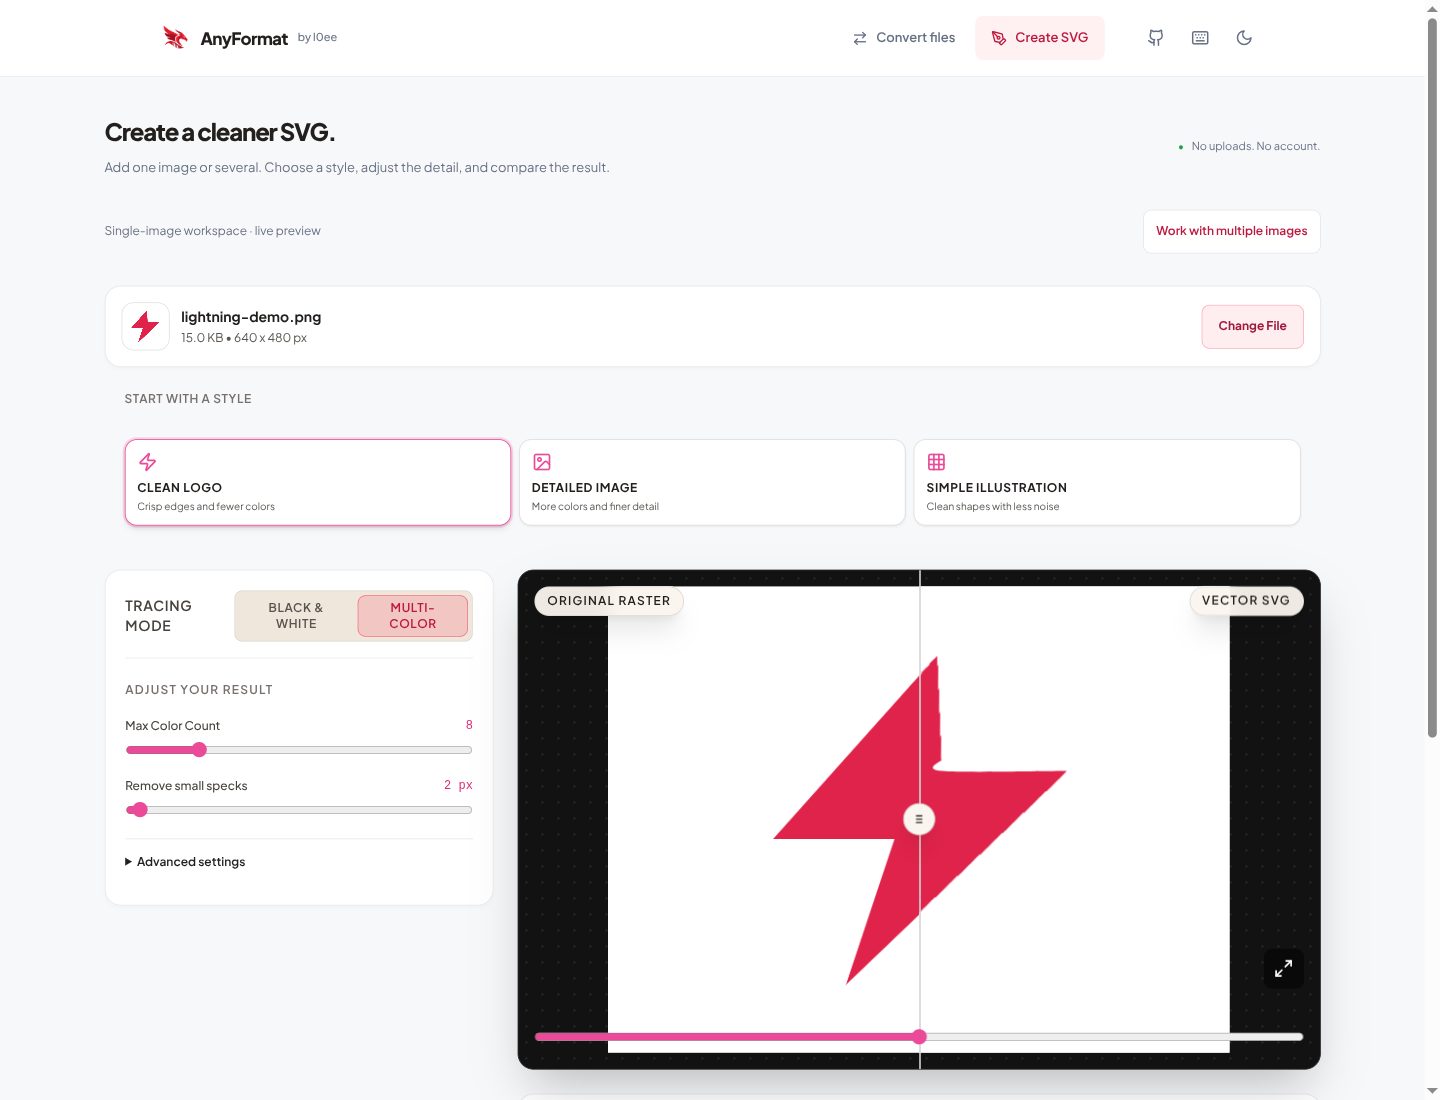
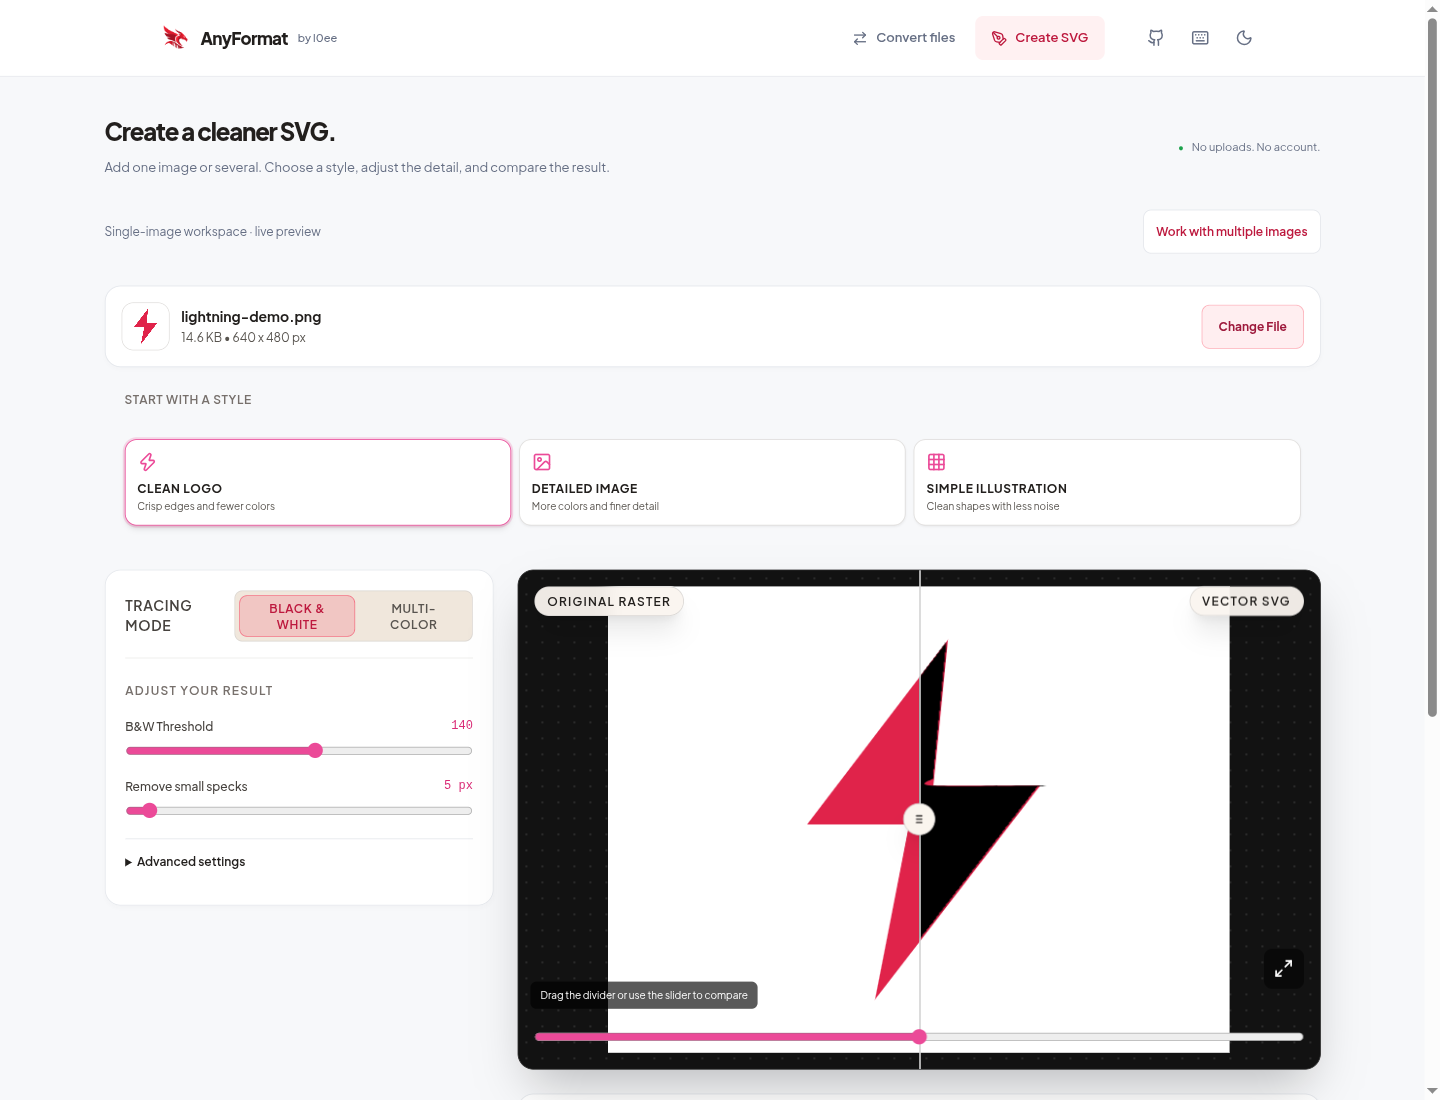
docs: refresh README and project screenshot (#22)

diff --git a/README.md b/README.md
@@ -1,84 +1,35 @@
-# AnyFormat 2.2
+# AnyFormat
 
-**Image and PDF conversion. SVG tools. All in your browser.**
+AnyFormat converts images in batches, traces images into SVGs, and exports selected PDF pages in your browser.
+
+[Open AnyFormat](https://l0ee.github.io/anyformat/) · [Report an issue](https://github.com/l0ee/anyformat/issues)
 
 [![CI](https://github.com/l0ee/anyformat/actions/workflows/ci.yml/badge.svg)](https://github.com/l0ee/anyformat/actions/workflows/ci.yml)
 
-AnyFormat helps you change image formats, turn pictures into SVG graphics, and export individual PDF pages. Preview your results, adjust the settings, and download one file or a batch. Your files are processed on your device and are never uploaded to a conversion server.
+![AnyFormat Vector Studio showing tracing settings and a comparison of the original image with its traced SVG](docs/images/vector-studio.png)
 
-[Open AnyFormat](https://l0ee.github.io/anyformat/) · [Report a problem](https://github.com/l0ee/anyformat/issues) · [Contribute](CONTRIBUTING.md)
+## Workspaces
 
-## At a glance
-
-| Area | Approach |
+| Workspace | What it does |
 | --- | --- |
-| Interface | React and TypeScript, with responsive layouts and preview-driven workflows |
-| Processing | Browser Canvas for raster operations and Web Workers for background tracing |
-| PDFs and exports | PDF.js, pdf-lib, and ZIP downloads for completed batches |
-| Data handling | Local file processing without a file-upload backend |
-| Development | Documented type checks, linting, unit tests, and Playwright browser tests |
+| Convert files | Convert images, SVG files, and selected PDF pages. Choose an output for each file, preview results, and download individual files or a batch ZIP. |
+| Create SVG | Trace one image in Vector Studio or add several to Vector Batch. Adjust colors and detail, compare the result with the original, and inspect or copy the SVG source. Batch images use shared styles and tracing settings. |
 
-Start with the [live application](https://l0ee.github.io/anyformat/), or jump to [local setup](#run-locally) to explore the code.
+For raster inputs, PNG, JPEG, and WebP exports support resizing, including same-format exports. JPEG and WebP also have quality controls; JPEG exports let you choose a background for transparent images.
 
-## What's new in 2.2
-
-- Resize PNG, JPEG, and WebP exports, adjust JPEG/WebP quality, and choose a background for transparent images exported as JPEG. Same-format exports apply these settings too.
-- Prepare a Studio image for a separate save/share tap, or share a completed conversion through your device's native menu when supported. See [mobile saving and sharing](docs/mobile-saving-and-sharing.md) for platform behavior and device-test scope.
-- Process SVG batches with bounded parallel tracing and keep the latest cleanup settings in exported files.
-- Safer ZIP names, early image-size checks, and more reliable PDF rendering under production security policies, including WebKit.
-- Tailwind CSS 4 styling with the existing layout, themes, and accessibility controls preserved.
-
-## Retained from 2.1
-
-- **Know what's happening:** conversion stages such as Reading image, Rendering PDF page, and Tracing shapes, plus a count of finished files.
-- **Stop and resume:** stop either queue without losing completed results, then resume the files still marked Ready. Some canvas/PDF operations finish their current browser step before stopping safely.
-- **Download as files finish:** save an individual SVG from a batch or export completed results as a ZIP without waiting for every file.
-- **Compare your result:** original and output sizes show whether the SVG is smaller or larger. A size change does not guarantee equivalent image quality.
-- **More responsive interactions:** the upload area acknowledges dragged files, the comparison handle explains how to use it, and selected styles provide subtle feedback.
-
-The creator link beside the logo opens [the AnyFormat repository](https://github.com/l0ee/anyformat). All motion still respects reduced-motion preferences.
-
-## What's new in Version 2
-
-Version 2 puts the file tools first: a cleaner layout, two main modes, and fewer settings to work through. The upload area includes a small pixel-to-vector motion graphic that you can pause. It also respects your device's reduced-motion setting.
-
-- **Convert files** for image formats and selected PDF pages.
-- **Create SVG** for a single image or a batch, with automatic batch routing when you add several images.
-- **Simpler settings:** start with a style and expand advanced controls when you need them.
-- **Mobile-friendly workflows:** the upload action is visible on the first screen, previews appear before settings, and downloads remain easy to find.
-
-See [CHANGELOG.md](CHANGELOG.md) for the release history. No installation or account is required to use the website on a desktop or phone.
-
-## Choose the right workspace
-
-| Workspace | What you can do |
-| --- | --- |
-| **Convert files** | Convert supported images, SVG files, and PDF pages. Choose an output for each file, preview results, and download completed files. |
-| **Create SVG** | Turn a picture into an SVG: a graphic made from shapes and curves that can scale without losing sharpness. Adjust colors and detail, then compare the result with the original. Add several images to use shared batch settings and export a ZIP. |
-
-![Vector Studio tracing settings and before-and-after image comparison](docs/images/vector-studio.png)
+Vector Studio supports black-and-white and color tracing, palette editing, fullscreen comparison, and SVG cleanup. You can download the SVG or export the traced result as PNG or WebP at different sizes. The interface has keyboard shortcuts, light and dark themes, and reduced-motion support.
 
 ## How to use it
 
-1. **Add your files.** Choose files, drag them into the upload area, or paste a supported image from your clipboard.
-2. **Choose your output.** Pick a format in Convert files, or choose a style in Create SVG. For PDFs, choose the page you want to convert. Advanced SVG settings and source code are available in expandable sections.
-3. **Preview and download.** Check the result, download a file, or export completed batch results as a ZIP. Use Stop processing if you need to pause the queue; completed results stay available.
+1. Choose Convert files or Create SVG. Select files, drag them into the upload area, or paste a supported image from your clipboard.
+2. Choose an output format or tracing style. For PDFs, select the page to export. Expand the advanced controls if you need to adjust the result.
+3. Preview the output, then download individual files or completed batch results as a ZIP. Native sharing is available when your browser supports it; see [mobile saving and sharing](docs/mobile-saving-and-sharing.md) for platform limits and device-test status.
 
-## Features
-
-- **Image and PDF conversion:** work with PNG, JPEG, WebP, BMP, SVG, and PDF files using the supported paths below.
-- **Editable SVG output:** create black-and-white or color graphics, adjust the level of detail, and edit the color palette.
-- **Before-and-after previews:** compare the source with the result and use the fullscreen view for a closer look.
-- **SVG tools:** inspect or copy SVG code, remove unnecessary metadata, and simplify the output.
-- **Flexible exports:** download SVG files, export traced results as PNG or WebP at different sizes, or collect completed files in a ZIP.
-- **Batch workflows:** use shared tracing settings, choose formats per file, and retry failed conversions.
-- **Accessible controls:** keyboard shortcuts, labeled inputs, responsive layouts, and light and dark themes.
+Both queues can stop and resume without losing completed results. Some canvas and PDF operations finish their current browser step before stopping. Completed files remain available to download while the rest of the queue runs, and failed conversions can be retried.
 
 ## Supported formats
 
-### Convert files
-
-| Input | Available outputs |
+| Convert files input | Available outputs |
 | --- | --- |
 | PNG | JPEG, WebP, SVG, PDF, PNG |
 | JPEG | PNG, WebP, SVG, PDF, JPEG |
@@ -87,26 +38,25 @@ See [CHANGELOG.md](CHANGELOG.md) for the release history. No installation or acc
 | SVG | PNG, JPEG, WebP, PDF |
 | PDF | PNG, JPEG, WebP, SVG |
 
-### Create SVG: single-image and batch workflows
+Vector Studio and Vector Batch accept PNG, JPEG, WebP, BMP, and GIF for tracing. Convert files does not support GIF. BMP is an input format only. Conversion paths are defined in [`src/engine/universal/types.ts`](src/engine/universal/types.ts).
 
-Create SVG accepts **PNG, JPEG, WebP, BMP, and GIF** images for tracing. GIF is not offered in Convert files.
+### Practical limits
 
-### What to expect
-
-- **PDF conversion works one selected page at a time.** PDF-to-SVG creates a traced version of the rendered page; it does not preserve the original text or vector objects.
-- **SVG tracing redraws a picture as shapes.** Simple logos and illustrations usually need less tuning than detailed photos. Results depend on your image and settings.
-- **Files are limited to 100 MB each.** Batch queues hold up to 100 files. Recognized raster headers exceeding 16,384 pixels per edge or 64 megapixels are rejected before decoding; output images may be reduced to fit the smaller canvas budget.
-- **Browser support can vary.** A format listed here may still depend on your browser's image decoder or encoder. Unsupported paths, including ICO conversion, are not offered.
-
-The supported-format definitions are maintained in [`src/engine/universal/types.ts`](src/engine/universal/types.ts).
+- PDF conversion exports one selected page at a time. PDF-to-SVG traces an image of that page; it does not preserve the original text or vector objects.
+- Tracing works best with simple logos and illustrations. Results depend on the source image and your settings; a smaller SVG file does not guarantee equivalent image quality.
+- Each file can be up to 100 MB, and each queue can hold up to 100 files.
+- Recognized raster headers exceeding 16,384 pixels per edge or 64 megapixels are rejected before decoding. Unknown header layouts fall back to the browser decoder. Output canvases have a smaller budget, so exports may be reduced in size. These checks do not bound the total memory used by a queue.
+- Format support depends on your browser's codecs. Tailwind CSS 4 requires Safari 16.4+, Chrome 111+, or Firefox 128+. Features such as native file sharing depend on browser support.
 
 ## Privacy
 
-Image processing and conversion run locally in your browser. AnyFormat has no file-upload backend, and it does not send your source files to a conversion service. The website still loads its application files and fonts when you open it.
+Image processing and conversion run locally in your browser. AnyFormat has no file-upload backend and does not send source files to a conversion service. The site still makes network requests to load application assets and Google Fonts.
+
+See [SECURITY.md](SECURITY.md) for rendering boundaries, memory checks, and deployment security policies. SVG cleanup is not a security sanitizer; treat exported SVGs as active content if you embed them elsewhere.
 
 ## Run locally
 
-Use **Node.js 22** and **npm 10**, as specified in `package.json`.
+Use Node.js 22 (22.12 or later) and npm 10, as specified in `package.json`.
 
 ```bash
 git clone https://github.com/l0ee/anyformat.git
@@ -115,67 +65,42 @@ npm ci
 npm run dev
 ```
 
-Open the local address printed by Vite.
+Open the local address printed by Vite. The interface uses React 19 and TypeScript, with Vite 8 and Tailwind CSS 4. Browser Canvas and Web Workers handle image processing and tracing; PDF.js and pdf-lib handle PDFs, and JSZip creates batch downloads.
 
-### Build and serve
+## Checks
+
+Run the validation suite:
+
+```bash
+npm run typecheck && npm run lint && npm test
+```
+
+For Chromium browser tests:
+
+```bash
+npx playwright install chromium
+npx playwright test --project=chromium
+```
+
+The full browser suite, `npm run test:e2e`, runs Chromium, Firefox, and WebKit. Install them first with `npx playwright install chromium firefox webkit`. On Debian or Ubuntu, add `--with-deps` if browser system libraries are missing. For Nobara/Fedora, see the [rootless WebKit setup](docs/webkit-on-fedora.md).
+
+Unit tests live alongside the source files and scripts they cover; browser tests are in `tests/e2e`. The optional `npm run test:stress` checks synthetic 4K tracing with larger image buffers. See [CONTRIBUTING.md](CONTRIBUTING.md) for the development workflow and [the audit summary](docs/audit-summary.md) for test scope.
+
+## Build and deploy
 
 ```bash
 npm run build
 npm start
 ```
 
-The production build is written to `dist`. The included server runs at **http://localhost:8080** by default.
+The build writes to `dist`. The included Node server serves it at `http://localhost:8080` by default, with compression, caching, range requests, and security headers.
 
-## Development and testing
+The public site runs on GitHub Pages. GitHub Actions validates changes and deploys successful builds from `main`. For another host, serve `dist` and set `VITE_SITE_URL` when building. Set `VITE_BASE_PATH` if you deploy under a subdirectory.
 
-| Command | Purpose |
-| --- | --- |
-| `npm run dev` | Start the development server. |
-| `npm run typecheck` | Check TypeScript types. |
-| `npm run lint` | Check code style and common mistakes. |
-| `npm test` | Run unit tests. |
-| `npm run test:stress` | Run optional synthetic 4K tracing checks. |
-| `npm run test:e2e` | Run browser tests in Chromium, Firefox, and WebKit. |
-| `npm run build` | Create the production site. |
-
-Install the test browsers before running the browser suite:
-
-```bash
-npx playwright install chromium firefox webkit
-```
-
-On Debian or Ubuntu, add `--with-deps` if browser system libraries are missing. To run only Chromium, use `npx playwright test --project=chromium`.
-
-For Nobara/Fedora's WebKit library requirements, see [the verified local setup](docs/webkit-on-fedora.md).
-
-Tests cover conversion paths, tracing, file limits, previews, queue behavior, accessibility, and the production server. New formats should have verified conversion paths before they are advertised.
-
-The 4K stress checks are opt-in and use larger image buffers. See [CONTRIBUTING.md](CONTRIBUTING.md) and [the audit summary](docs/audit-summary.md) for test scope and publication boundaries.
-
-## Built with
-
-- **React 18 and TypeScript** for the interface and application logic.
-- **Vite 6 and Tailwind CSS 4** for development, builds, and styling.
-- **Browser Canvas and Web Workers** for image processing and background tracing.
-- **PDF.js and pdf-lib** for reading PDF pages and creating PDF files.
-- **JSZip** for batch downloads and **Lucide React** for interface icons.
-
-## Deployment
-
-The public site is hosted on [GitHub Pages](https://l0ee.github.io/anyformat/). GitHub Actions validates changes and deploys successful builds from `main`.
-
-For another host, serve the generated `dist` folder and set `VITE_SITE_URL` to your public site address when building. Set `VITE_BASE_PATH` if the app will live under a subdirectory. The included Node server also supports self-hosting, with compression, caching, range requests, and security headers.
-
-Website assets belong in `public`. Keep unused source artwork in the ignored `design-assets` directory.
-
-### Versioned releases
-
-The website updates when a validated change is merged into `main` and GitHub Pages deployment succeeds. GitHub releases record source versions separately, such as `v2.0.0` and `v2.1.0`. Creating a release alone does not deploy the website. The version displayed in the footer comes from `package.json`.
+Website assets belong in `public`; keep unused source artwork in the ignored `design-assets` directory. GitHub releases record source versions separately from website deployments. See [CHANGELOG.md](CHANGELOG.md) for release history.
 
 ## Contributing and support
 
-Have an idea or found a problem? [Open an issue](https://github.com/l0ee/anyformat/issues). For code changes, create a focused branch and follow [CONTRIBUTING.md](CONTRIBUTING.md). See [SECURITY.md](SECURITY.md) for security reports.
+For bugs and feature requests, [open an issue](https://github.com/l0ee/anyformat/issues). Follow [CONTRIBUTING.md](CONTRIBUTING.md) for code changes and [SECURITY.md](SECURITY.md) to report security concerns privately.
 
-## License
-
-AnyFormat is released under the [MIT License](LICENSE).
+AnyFormat is released under the [MIT license](LICENSE).
